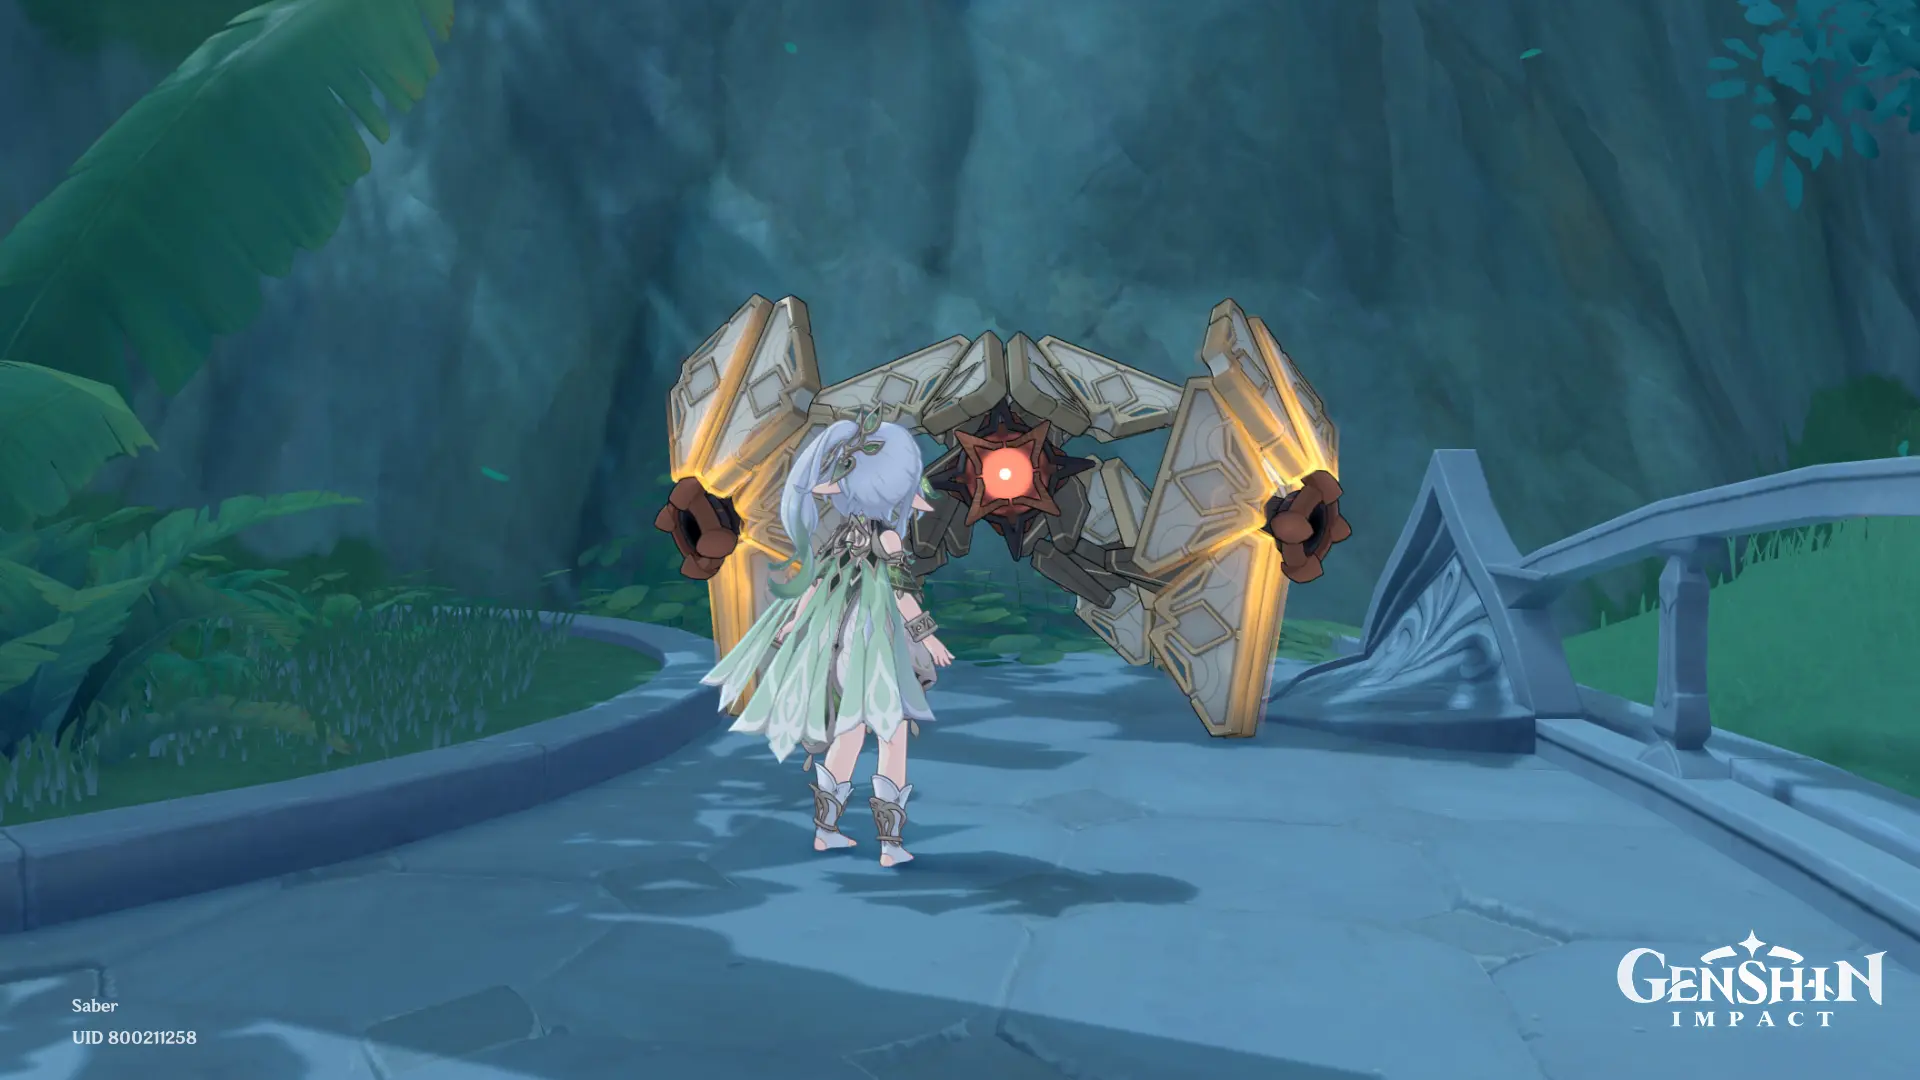
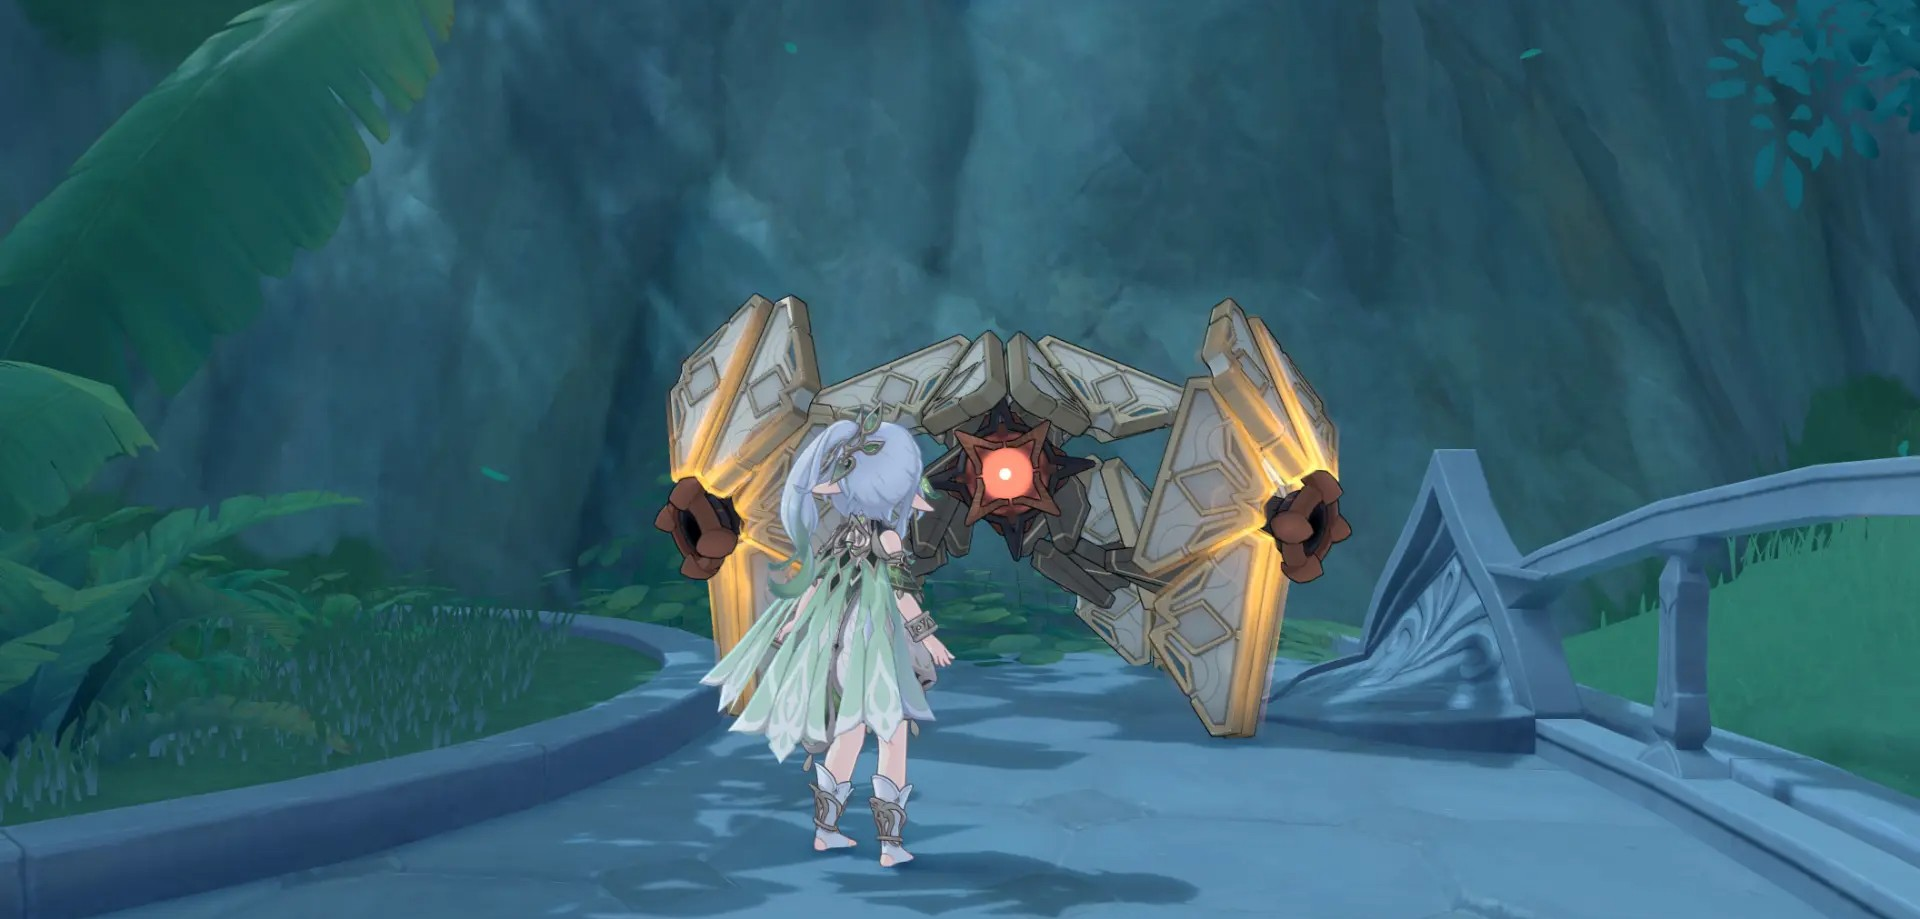
remove watermark from world quest

diff --git a/index.html b/index.html
@@ -10,9 +10,9 @@
     <meta name="msapplication-navbutton-color" content="#CFE275">
     <meta name="apple-mobile-web-app-status-bar-style" content="#CFE275">
     <meta property="og:image" content="https://nahidaquest.com/assets/logo.webp" />
-    <link rel="stylesheet" type="text/css" href="styles.css?v=8b2ddfd6366729731823fee">
-    <link rel="stylesheet" type="text/css" href="mobile.css?v=8b2ddfd6366729731823fee" media="screen and (max-aspect-ratio: 11.5/9)">
-    <link rel="stylesheet" type="text/css" href="mobile.css?v=8b2ddfd6366729731823fee" media="(device-width: 768px) and (device-height: 1024px) and (orientation:portrait)" >
+    <link rel="stylesheet" type="text/css" href="styles.css?v=89ee0374ffc8be45deb8c0176984b693">
+    <link rel="stylesheet" type="text/css" href="mobile.css?v=89ee0374ffc8be45deb8c0176984b693" media="screen and (max-aspect-ratio: 11.5/9)">
+    <link rel="stylesheet" type="text/css" href="mobile.css?v=89ee0374ffc8be45deb8c0176984b693" media="(device-width: 768px) and (device-height: 1024px) and (orientation:portrait)" >
     <link rel="icon" type="image/x-icon" href="./assets/favicon.ico">
     <link rel="apple-touch-icon" href="./assets/apple-touch-icon-iphone-60x60.png">
     <link rel="apple-touch-icon" sizes="60x60" href="./assets/apple-touch-icon-ipad-76x76.png">
@@ -46,6 +46,6 @@
     </div>
     <script src="https://cdn.jsdelivr.net/npm/@panzoom/panzoom/dist/panzoom.min.js"></script>
     <script src="https://unpkg.com/konva@9.0.1/konva.min.js"></script>
-    <script type="module" src="main.js?v=8b2ddfd6366729731823fee"></script>
+    <script type="module" src="main.js?v=89ee0374ffc8be45deb8c0176984b693"></script>
 </body>
 </html>

diff --git a/main.js b/main.js
@@ -5,7 +5,7 @@ import { inventoryAddButton,dimMultiplierButton,volumeScrollerAdjust,floatText,m
 import Preload from 'https://unpkg.com/preload-it@latest/dist/preload-it.esm.min.js'
 import * as drawUI from "./modules/drawUI.js"
 
-const VERSIONNUMBER = "V.1-00-003";
+const VERSIONNUMBER = "V.1-00-004";
 const COPYRIGHT = "DISCLAIMER © HoYoverse. All rights reserved. \n HoYoverse and Genshin Impact  are trademarks, \n services marks, or registered trademarks of HoYoverse.";
 const DBNUBMER = (VERSIONNUMBER.split(".")[1]).replaceAll("-","");
 //------------------------------------------------------------------------INITIAL SETUP------------------------------------------------------------------------//
